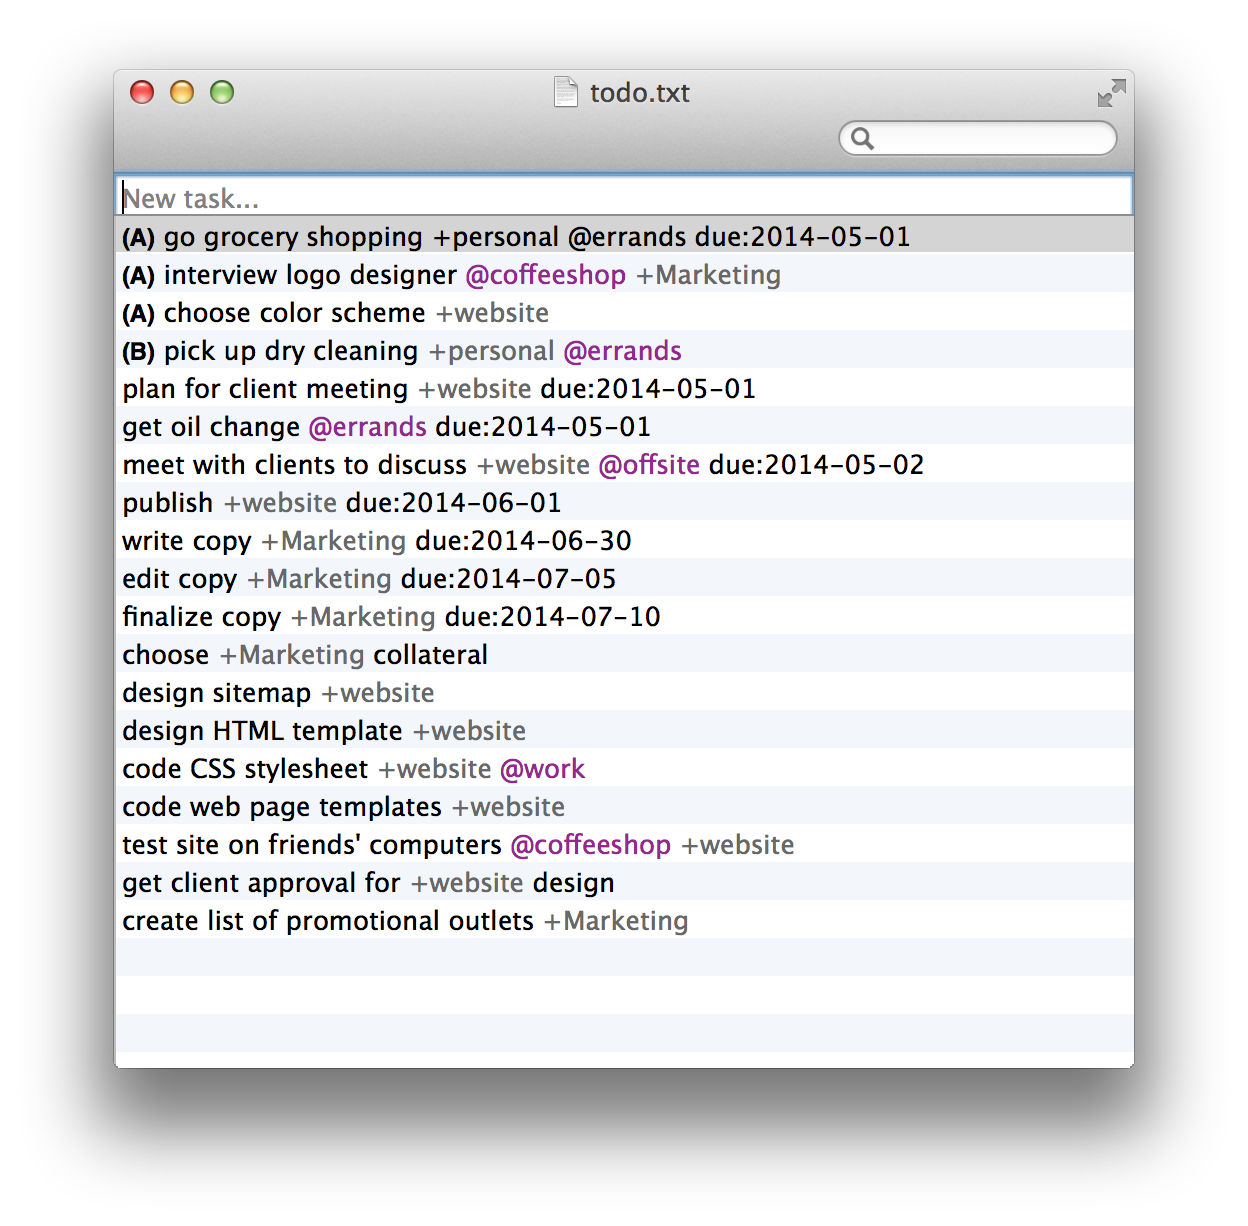
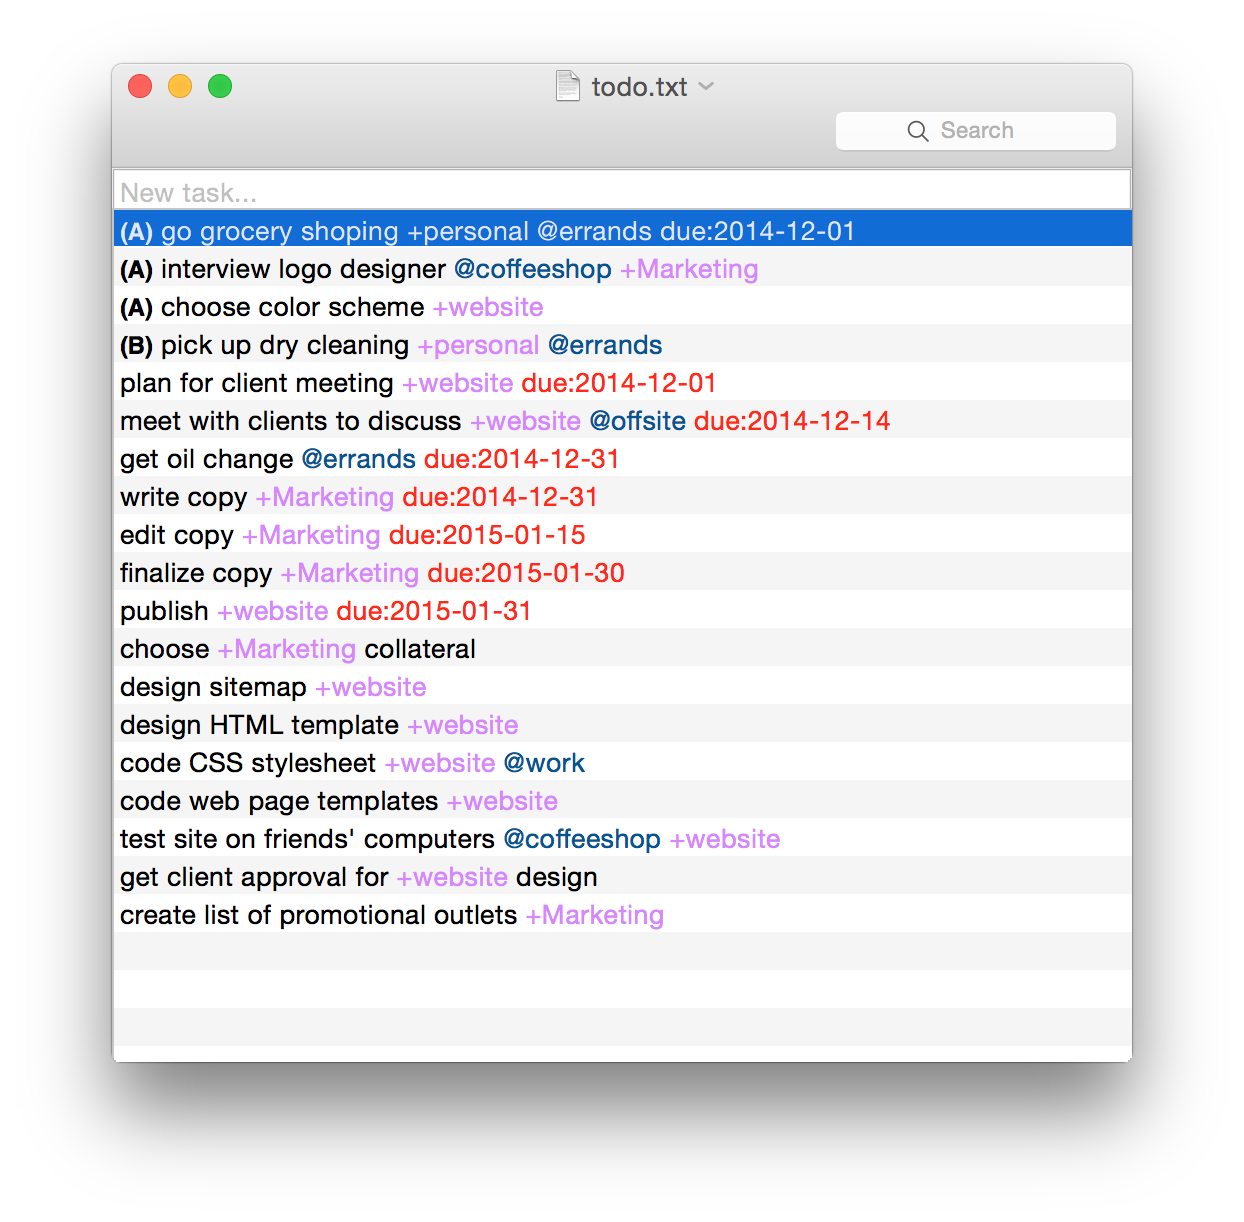
Updated screenshots and tagline.

Changed region(s): [[0.0611, 0.0622, 0.9469, 0.9329], [0.4277, 0.0622, 0.5498, 0.0933]]

diff --git a/index.html b/index.html
@@ -5,6 +5,7 @@
 <head>
   <meta charset="utf-8">
   <meta http-equiv="X-UA-Compatible" content="IE=edge,chrome=1">
+  <meta name="viewport" content="width=device-width,initial-scale=1">
 
   <link rel="stylesheet" href="stylesheets/stylesheet.css" media="screen"/>
   <link rel="stylesheet" href="stylesheets/pygment_trac.css"/>
@@ -13,9 +14,6 @@
 
   <title>TodoTxtMac</title>
   <meta name="description" content="TodoTxtMac is a minimalist, keyboard-driven to-do manager for Mac OS X (10.8 Mountain Lion and higher) that conforms to the todo.txt format spec.">
-
-  <meta name="viewport" content="width=device-width,initial-scale=1">
-
 </head>
 
 <body>
@@ -25,7 +23,7 @@
       <h1 class="title">TodoTxtMac</h1>
     </header>
     <div id="container">
-      <p class="tagline">TodoTxtMac is a minimalist, keyboard-driven to-do manager for Mac OS X (10.8 Mountain Lion and higher) that conforms to the todo.txt format spec.</p>
+      <p class="tagline">A modern Mac GUI for working with your todo.txt file.</p>
       <div id="main" role="main">
         <div class="download-bar">
         <div class="inner">
@@ -36,27 +34,19 @@
         <span class="blc"></span><span class="trc"></span>
         </div>
         <article class="markdown-body">
-          <h1>
-<a name="todotxtmac" class="anchor" href="#todotxtmac"><span class="octicon octicon-link"></span></a>TodoTxtMac</h1>
 
-<h1>
-<a name="overview" class="anchor" href="#overview"><span class="octicon octicon-link"></span></a>Overview</h1>
+<h1><a name="overview" class="anchor" href="#overview"><span class="octicon octicon-link"></span></a>TodoTxtMac Overview</h1>
 
-<p>TodoTxtMac is a minimalist, keyboard-driven to-do manager for Mac OS X (10.8 Mountain Lion and higher) that conforms to the todo.txt format spec.</p>
+<p>TodoTxtMac is a minimalist, keyboard-driven to-do manager for Mac OS X (10.8 Mountain Lion and higher) that conforms to the todo.txt format spec. (<a href="#screenshots">Additional screenshots below.</a>)</p>
 
-<p><img src="http://mjdescy.github.io/TodoTxtMac/images/todotxtmac-screenshot.png" alt="TodoTxtMac Screenshot"></p>
+<div><img src="./images/todotxtmac-screenshot.png" alt="TodoTxtMac Screenshot"></div>
 
-<p><img src="http://mjdescy.github.io/TodoTxtMac/images/todotxtmac-screenshot-preferences.png" alt="TodoTxtMac Preferences Screenshot"></p>
 
-<p><img src="http://mjdescy.github.io/TodoTxtMac/images/todotxtmac-screenshot-filters.png" alt="TodoTxtMac Filters Screenshot"></p>
-
-<h1>
-<a name="download" class="anchor" href="#download"><span class="octicon octicon-link"></span></a>Download</h1>
+<h1><a name="download" class="anchor" href="#download"><span class="octicon octicon-link"></span></a>Download</h1>
 
 <p>Download the latest release from the <a href="https://github.com/mjdescy/TodoTxtMac/releases">Releases page</a> on GitHub.</p>
 
-<h1>
-<a name="see-it-in-action" class="anchor" href="#see-it-in-action"><span class="octicon octicon-link"></span></a>See it in action</h1>
+<h1><a name="see-it-in-action" class="anchor" href="#see-it-in-action"><span class="octicon octicon-link"></span></a>See it in action</h1>
 
 <ol>
 <li>Watch a <a href="http://youtu.be/E2QOYDQH6MI">short demo video</a> on YouTube.</li>
@@ -248,6 +238,27 @@
 <p>Thanks to kuba for the image used as the icon. Image Credit: <a href="http://vector.me/browse/329308/ok_icon">OK Icon</a> from <a href="http://vector.me/">Vector.me</a> (by kuba).</p>
 
 <p>Thanks to Andy Matuschak and the other contributors for the <a href="http://sparkle.andymatuschak.org/">Sparkle framework</a>.</p>
+
+<h1><a name="screenshots" class="anchor" href="#screenshots"><span class="octicon octicon-link"></span></a>Screenshots</h1>
+
+<h2>General Preferences</h2>
+
+<div><img src="./images/todotxtmac-screenshot-preferences-general.png" alt="TodoTxtMac General Preferences Screenshot"></div>
+
+<h2>Color Preferences</h2>
+
+<div><img src="./images/todotxtmac-screenshot-preferences-colors.png" alt="TodoTxtMac Color Preferences Screenshot"></div>
+
+<h2>Task List Filters</h2>
+
+<div><img src="./images/todotxtmac-screenshot-filters.png" alt="TodoTxtMac Filters Screenshot"></div>
+
+<h2>Task List Metadata</h2>
+
+<div><img src="./images/todotxtmac-screenshot-metadata.png" alt="TodoTxtMac Metadata Screenshot"></div>
+
+<p><a href="#overview">Back to overview.</a></p>
+
         </article>
       </div>
     </div>
